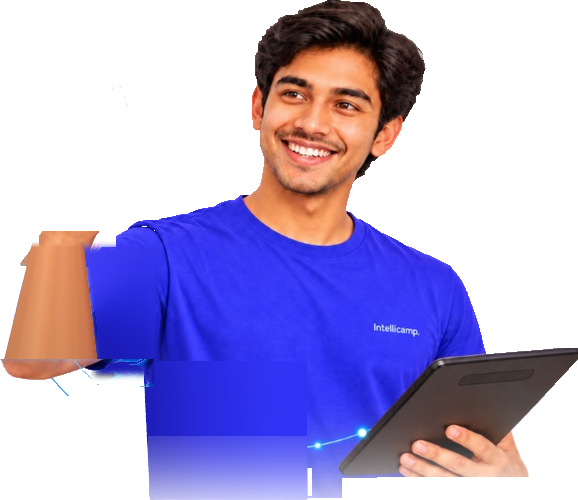
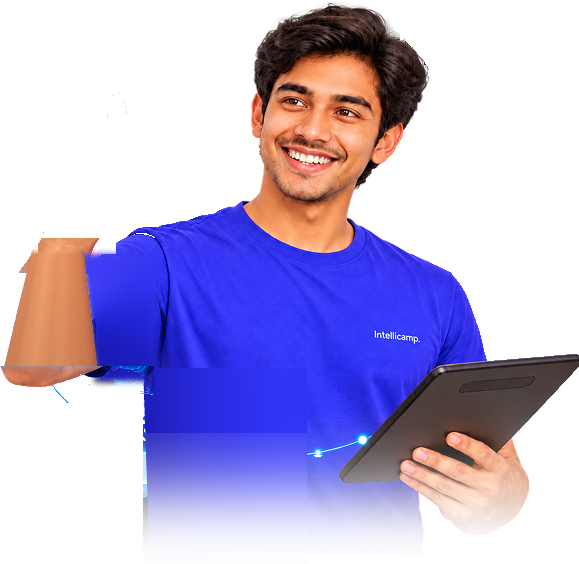
Hero animation: high-res artwork, original cards, Smart Study Material selected
Claude-Session: https://claude.ai/code/session_01RrgPSv5FZEd99BayXaAJSG

Changed region(s): [[0.0, 0.0, 1.0, 1.0]]

diff --git a/hero-animation/index.html b/hero-animation/index.html
@@ -5,11 +5,8 @@
 <meta name="viewport" content="width=device-width, initial-scale=1">
 <title>Intellicamp Feature Orbit</title>
 <style>
-  @font-face{font-family:"Inter";src:url("assets/Inter-latin.woff") format("woff");font-weight:100 900;font-display:swap;}
   :root{
     --page:#eef2fb;
-    --card-title:#0d1330;
-    --card-sub:#66748f;
     --cyan:#4fd2ff;
   }
   @media (prefers-color-scheme: dark){ :root:not([data-theme="light"]){ --page:#0d1224; } }
@@ -27,26 +24,12 @@
   .ic-hand{will-change:transform;}
   .ic-cards{left:0;top:0;width:1198px;height:1264px;}
 
-  /* FeatureOrbitCard */
-  .ic-card{position:absolute;left:0;top:0;box-sizing:border-box;display:flex;align-items:center;
-    font-family:"Inter",system-ui,-apple-system,"Segoe UI",Roboto,sans-serif;
-    border-radius:calc(15px*var(--f));
-    padding:0 calc(14px*var(--f));gap:calc(13px*var(--f));
-    background:linear-gradient(150deg,rgba(255,255,255,.93) 0%,rgba(236,245,255,.86) 40%,rgba(208,229,255,.82) 100%);
-    border:calc(1.6px*var(--f)) solid rgba(214,240,255,.95);
-    box-shadow:0 0 0 calc(1.2px*var(--f)) rgba(110,200,255,.65),
-               0 0 calc(16px*var(--f)) rgba(64,186,255,.55),
-               0 0 calc(34px*var(--f)) rgba(64,160,255,.28),
-               0 calc(10px*var(--f)) calc(22px*var(--f)) rgba(40,80,190,.16),
-               inset 0 calc(-8px*var(--f)) calc(16px*var(--f)) rgba(120,200,255,.35),
-               inset 0 calc(2px*var(--f)) 0 rgba(255,255,255,.9);
-    will-change:transform,filter;transform-origin:50% 50%;}
-  .ic-card .ic-icon{flex:none;width:calc(46px*var(--f));height:calc(46px*var(--f));border-radius:calc(11px*var(--f));
-    box-shadow:0 0 calc(12px*var(--f)) rgba(30,140,255,.45);display:block;}
-  .ic-card .ic-t{font-weight:700;font-size:calc(16.6px*var(--f));line-height:1.1;letter-spacing:-.018em;color:var(--card-title);white-space:nowrap;}
-  .ic-card .ic-s{margin-top:calc(6px*var(--f));font-weight:450;font-size:calc(10.6px*var(--f));line-height:1.35;color:var(--card-sub);white-space:nowrap;}
-  .ic-card .ic-sel{position:absolute;inset:calc(-3px*var(--f));border-radius:calc(17px*var(--f));pointer-events:none;opacity:0;
-    box-shadow:0 0 0 calc(2.5px*var(--f)) var(--cyan),0 0 calc(26px*var(--f)) rgba(79,210,255,.85),0 0 calc(60px*var(--f)) rgba(60,150,255,.45);}
+  /* FeatureOrbitCard: the original card artwork, one image per card */
+  .ic-card{position:absolute;left:0;top:0;will-change:transform,filter;transform-origin:50% 50%;}
+  .ic-card .ic-cardimg{position:absolute;display:block;max-width:none;}
+  .ic-card .ic-icon{position:absolute;display:block;max-width:none;transform-origin:50% 50%;}
+  .ic-card .ic-sel{position:absolute;inset:-3px;border-radius:19px;pointer-events:none;opacity:0;
+    box-shadow:0 0 0 2.5px var(--cyan),0 0 26px rgba(79,210,255,.85),0 0 60px rgba(60,150,255,.45);}
 
   /* TouchRipple + fingertip glow */
   .ic-fx{left:0;top:0;width:1198px;height:1264px;pointer-events:none;}
@@ -63,7 +46,7 @@
 </head>
 <body>
 
-<div class="ic-orbit" id="orbit" role="img" aria-label="A student surrounded by six Intellicamp AI features: AI Paper Generation, Instant AI Exam, Exam Insights, Progress Analytics, Performance Tracking and Smart Study Material. He spins them around him and taps AI Paper Generation.">
+<div class="ic-orbit" id="orbit" role="img" aria-label="A student surrounded by six Intellicamp AI features: AI Paper Generation, Instant AI Exam, Exam Insights, Progress Analytics, Performance Tracking and Smart Study Material. He spins them around him and taps Smart Study Material.">
   <div class="ic-stage">
     <img class="ic-bg" src="assets/background.jpg" alt="">
     <!-- OrbitalTrack -->
@@ -90,7 +73,7 @@
       <path id="trail" d="" fill="none" stroke="#9fe6ff" stroke-width="6" stroke-linecap="round" opacity="0" filter="url(#soft)"/>
     </svg>
     <!-- StudentImageLayer -->
-    <img class="ic-body" src="assets/student-body.png" alt="" style="left:297px;top:605px;width:578px;height:500px">
+    <img class="ic-body" src="assets/student-body.png" alt="" style="left:297px;top:598px;width:579px;height:564px">
     <div class="ic-cards" id="cards"></div>
     <!-- StudentHandInteraction -->
     <img class="ic-hand" id="hand" src="assets/student-hand.png" alt="" style="left:290px;top:670px;width:190px;height:210px;transform-origin:85px 180px">
@@ -105,17 +88,17 @@
 <script>
 /* Intellicamp Feature Orbit — all coordinates are on a 1198×1264 reference artboard (2× the email hero). */
 (function(){
-  const ORBIT = {"cx": 610.0, "cy": 790.0, "r": 270.0, "theta": {"paper": -1.66971, "instant": -0.76494, "insights": 0.00517, "progress": 1.9849, "perf": 2.6725, "smart": -2.58543}, "depth": 0.07, "stopDeg": 306.3};   // every card centre rides exactly on this circle
+  const ORBIT = {"cx": 610.0, "cy": 790.0, "r": 270.0, "theta": {"paper": -1.66971, "instant": -0.76494, "insights": 0.00517, "progress": 1.9849, "perf": 2.6725, "smart": -2.58543}, "depth": 0.07, "stopDeg": 360};   // every card centre rides exactly on this circle
   const HAND  = { x:290, y:670, pivot:[85,180], tip:[124,36] };   // hand image box, wrist pivot + fingertip (image px)
   const CARDS = [
-    {k:'paper',    t:'AI Paper<br>Generation',  s:'Get personalized practice<br>papers in seconds.',  box:[490,482,188,92],  f:0.88},
-    {k:'instant',  t:'Instant AI<br>Exam',      s:'Practice smarter<br>with AI-adaptive tests.',       box:[716,566,162,89],  f:0.81},
-    {k:'insights', t:'Exam<br>Insights',        s:'Understand your<br>strengths and gaps.',            box:[726,748,155,86],  f:0.84},
-    {k:'progress', t:'Progress<br>Analytics',   s:'Set goals and achieve<br>them with AI guidance.',   box:[411,992,180,92],  f:0.95},
-    {k:'perf',     t:'Performance<br>Tracking', s:'Track your progress<br>in real-time.',              box:[267,872,173,96],  f:0.93},
-    {k:'smart',    t:'Smart<br>Study Material', s:'AI-curated notes,<br>summaries &amp; more.',        box:[283,602,210,100], f:1.0}
+    {k:'paper', box:[490, 482, 188, 92], m:12, icon:[10, 10, 48, 48]},
+    {k:'instant', box:[716, 566, 162, 89], m:12, icon:[10, 10, 45, 46]},
+    {k:'insights', box:[726, 748, 155, 86], m:12, icon:[12, 10, 47, 46]},
+    {k:'progress', box:[411, 992, 180, 92], m:12, icon:[11, 10, 54, 52]},
+    {k:'perf', box:[267, 872, 173, 96], m:12, icon:[10, 9, 52, 51]},
+    {k:'smart', box:[283, 602, 210, 100], m:12, icon:[12, 12, 55, 52]}
   ];
-  const SELECT = 'paper';
+  const SELECT = 'smart';                 // the card the student taps
   const CONFIG = { loop:true };
 
   const root  = document.getElementById('orbit');
@@ -135,9 +118,11 @@
   const cards = CARDS.map(c => {
     const el = document.createElement('div');
     el.className = 'ic-card'; el.dataset.k = c.k;
-    el.style.setProperty('--f', c.f);
     el.style.width = c.box[2]+'px'; el.style.height = c.box[3]+'px';
-    el.innerHTML = '<img class="ic-icon" alt="" src="assets/icon-'+c.k+'.png"><div><div class="ic-t">'+c.t+'</div><div class="ic-s">'+c.s+'</div></div><div class="ic-sel"></div>';
+    const W = c.box[2]+2*c.m, H = c.box[3]+2*c.m, [ix,iy,iw,ih] = c.icon;
+    el.innerHTML = '<img class="ic-cardimg" alt="" src="assets/card-'+c.k+'.png" style="left:'+(-c.m)+'px;top:'+(-c.m)+'px;width:'+W+'px;height:'+H+'px">'
+                 + '<img class="ic-icon" alt="" src="assets/icon-'+c.k+'.png" style="left:'+ix+'px;top:'+iy+'px;width:'+iw+'px;height:'+ih+'px">'
+                 + '<div class="ic-sel"></div>';
     cardsEl.appendChild(el);
     const a0 = ORBIT.theta[c.k];
     return { ...c, el, icon:el.querySelector('.ic-icon'), sel:el.querySelector('.ic-sel'), a0,
@@ -148,7 +133,7 @@
   /* ---------- orbital mathematics (one shared rotation) ---------- */
   const orbitState = { rotation:0 };
   const fxState = { tap:1 };                      // press-bounce multiplier for the selected card
-  const STOP = ORBIT.stopDeg*Math.PI/180;         // wheel stops with AI Paper Generation beside the fingertip
+  const STOP = ORBIT.stopDeg*Math.PI/180;         // wheel stops with Smart Study Material beside the fingertip
   function updateOrbitPositions(){
     const r = orbitState.rotation;
     for (const c of cards){
@@ -223,7 +208,7 @@
       .addLabel('swipeStart', 0.8);
     swipe(0.8, 1, 0.7);
 
-    // one smooth turn that eases to a stop with AI Paper Generation on the orbit, right by the fingertip
+    // one smooth 360° turn that eases to a stop with Smart Study Material back on the orbit, right by the fingertip
     tl.addLabel('orbitRotation', 1.3)
       .to(orbitState,{ rotation:STOP, duration:5.9, ease:'sine.inOut' }, 'orbitRotation');
     swipe(3.0, 0.7, 0.6);
@@ -246,11 +231,9 @@
       .to(byKey[SELECT].sel,{ opacity:.65, duration:.6 }, 'selectionComplete')
       .addLabel('finalHold', 9.0)
 
-      // the wheel finishes its turn back home, so each loop is exactly one 360°
       .addLabel('reset', 10.3)
       .to(byKey[SELECT].sel,{ opacity:0, duration:.5 }, 'reset')
       .to(others,{ opacity:1, duration:.5 }, 'reset')
-      .to(orbitState,{ rotation:Math.PI*2, duration:1.5, ease:'sine.inOut' }, 'reset+=0.1')
       .set(orbitState,{ rotation:0 }, 11.95)          // 2π ≡ 0: identical positions
       .to({}, { duration:0 }, 12.0);
     return tl;

diff --git a/hero-animation/README.md b/hero-animation/README.md
@@ -3,14 +3,14 @@
 Open `index.html` in a browser. Everything it needs is in `assets/`.
 
 **What it does (12 s loop, one GSAP master timeline):**
-`initial` → `swipeStart` (finger flick, light trail) → `orbitRotation` (all six cards turn clockwise on one circle, upright, centres always exactly on the drawn ring, easing to a stop with AI Paper Generation beside the fingertip) → `orbitStop` (other cards dim) → `fingerTap` (ripple, 1 → 0.97 → 1.07 → 1 press, cyan selection glow, icon pulse) → `selectionComplete` → `finalHold` → `reset` (the wheel completes its turn home, so each loop is exactly one 360°). The fingertip glow appears only while swiping and tapping.
+`initial` → `swipeStart` (finger flick, light trail) → `orbitRotation` (all six cards turn clockwise on one circle, upright, centres always exactly on the drawn ring, making one full 360° turn and easing to a stop with Smart Study Material back beside the fingertip) → `orbitStop` (other cards dim) → `fingerTap` (ripple, 1 → 0.97 → 1.07 → 1 press, cyan selection glow, icon pulse) → `selectionComplete` → `finalHold` → `reset`. The fingertip glow appears only while swiping and tapping.
 
-**Layers:** `background.jpg` (gradient, glow, logo, headline, button) · SVG orbit ring, nodes and travelling light · `student-body.png` · six HTML/CSS cards · `student-hand.png` (wrist pivot for the gesture) · fingertip glow and ripple.
+**Layers:** `background.jpg` (gradient, glow, logo, headline, button) · SVG orbit ring, nodes and travelling light · `student-body.png` · six cards (`card-*.png`, the original artwork from the high-resolution image, with `icon-*.png` on top for the icon pulse) · `student-hand.png` (wrist pivot for the gesture) · fingertip glow and ripple.
 
-**Built in:** reduced motion shows the finished state with AI Paper Generation selected; the timeline pauses when scrolled off-screen; the whole artboard (1198×1264) scales to its container. Set `CONFIG.loop` in the script to turn looping off.
+**Built in:** reduced motion shows the finished state with Smart Study Material selected; the timeline pauses when scrolled off-screen; the whole artboard (1198×1264) scales to its container. Set `CONFIG.loop` in the script to turn looping off.
 
-**Source and limits:** the student comes from the original transparent artwork in the Figma file. Two areas were hidden behind cards in that artwork and were reconstructed: the forearm/elbow under *Performance Tracking* and the shirt edge under *Progress Analytics*. They're visible only while those cards are away. Card faces are rebuilt in HTML/CSS with the original icons.
+**Source and limits:** the student comes from the original transparent artwork in the Figma file. Two areas were hidden behind cards in that artwork and were reconstructed: the forearm/elbow under *Performance Tracking* and the shirt edge under *Progress Analytics*. They're visible only while those cards are away. Cards are cut from the high-resolution artwork; orbit lines, his arm showing through the glass, and the touch rings on Smart Study Material were cleaned off.
 
-**Email version:** `../email/hero-orbit.gif` is this animation rendered at 600 px, 10 fps (about 2.3 MB). Outlook on Windows shows only the first frame, which matches the static hero.
+**Email version:** `../email/hero-orbit.gif` is this animation rendered at 600 px, 10 fps (about 1.7 MB). Outlook on Windows shows only the first frame, which matches the static hero.
 
 GSAP is © GreenSock, used under its standard licence. Inter is under the SIL Open Font License.
